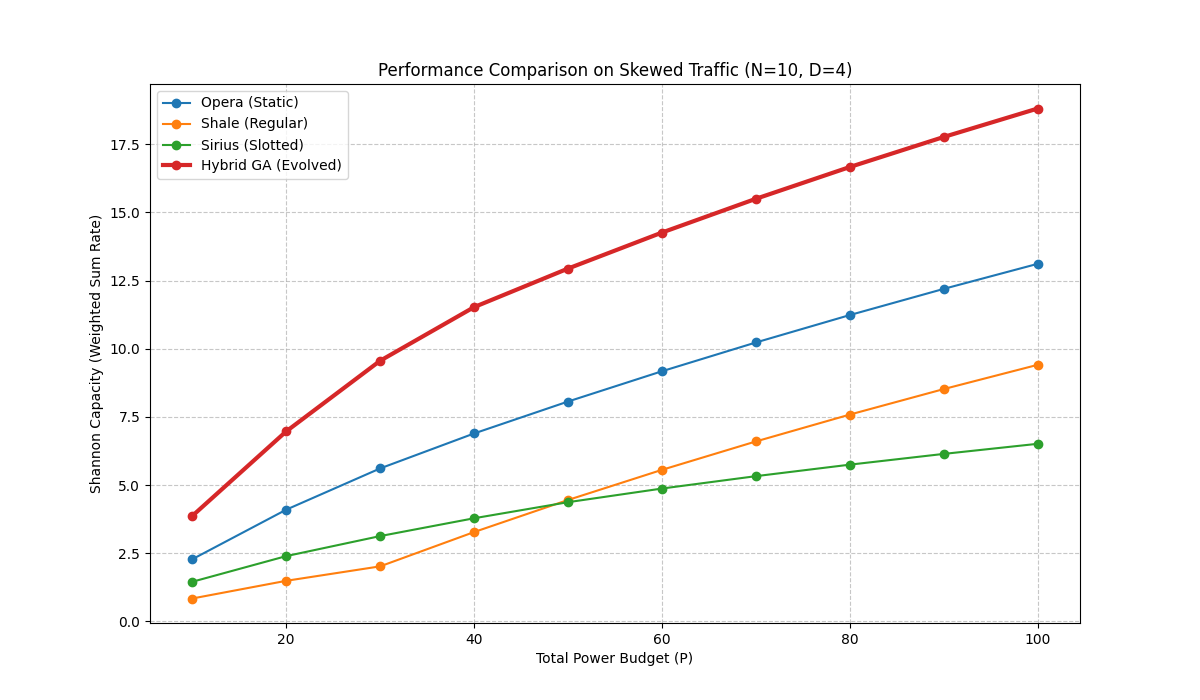
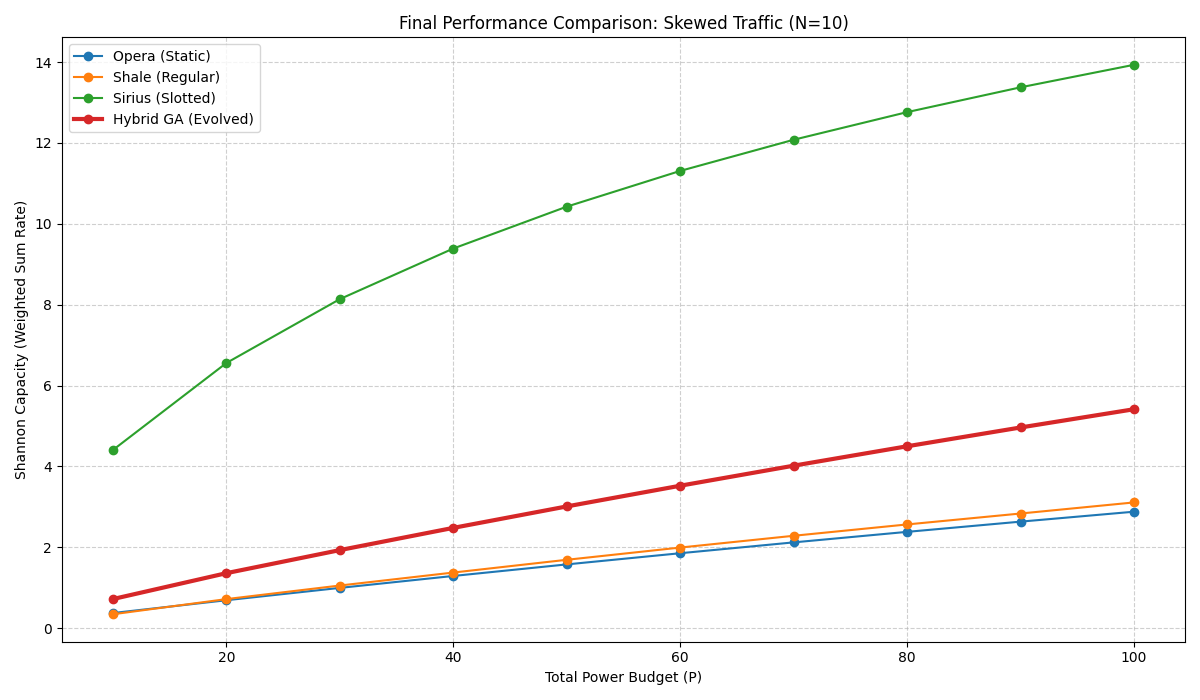
redundant images removed, test waterfilling updated for opera

diff --git a/Traffic_Benchmarks.py b/Traffic_Benchmarks.py
@@ -25,15 +25,22 @@ def generate_skewed_traffic(num_nodes, skew_factor=2):
             traffic[i, j] = 1.0 / (abs(i - j) ** skew_factor + 1)
     return traffic
 
-def calculate_topology_capacity(adj_list, traffic_matrix, total_power=50):
+def calculate_topology_capacity(adj_list, traffic_matrix, total_power=50, architecture_type=None):
     """
     Simulates network capacity for a given topology and traffic demand.
     Uses path-length as noise and Waterfilling for power allocation.
+    
+    Rules implemented:
+    - Weight Normalization: For each source node, the sum of path-lengths (noise) 
+      to all destinations is normalized to a constant 'Power Level' target.
+    - Opera-specific: If architecture_type="opera", the number of timeslots equals the 
+      number of hops. This results in the capacity being divided by the path length for each flow.
     """
     from Waterfilling_Alg import waterfilling
     import collections
     
     num_nodes = len(adj_list)
+    weight_sum_target = num_nodes * 10.0 # Standard 'Power Level' target for sum of weights per node
     
     # 1. Find all-pairs shortest paths to determine 'noise' (hops = noise)
     def get_all_pairs_dist(adj):
@@ -53,37 +60,57 @@ def calculate_topology_capacity(adj_list, traffic_matrix, total_power=50):
 
     dist_matrix = get_all_pairs_dist(adj_list)
     
-    # 2. Map logical traffic flows to physical characteristics
-    # Logical channels are SRC-DST pairs with traffic > 0
+    # 2. Map logical traffic flows and Normalize per-node weights
     channels_noise = []
     demands = []
+    flow_metas = [] # Store (src, dst, original_hops)
     
     for i in range(num_nodes):
+        # Calculate current sum of weights for source i
+        current_sum = 0
+        for j in range(num_nodes):
+            if i == j: continue
+            hops = dist_matrix[i, j] if dist_matrix[i, j] != float('inf') else 100
+            current_sum += hops
+        
+        # Scale factor to hit the 'Power Level' target
+        scale_factor = weight_sum_target / current_sum if current_sum > 0 else 1.0
+        
         for j in range(num_nodes):
             if i == j: continue
             demand = traffic_matrix[i, j]
             if demand > 0:
-                # Noise is path length. If disconnected, noise is huge.
-                noise = dist_matrix[i, j] if dist_matrix[i, j] != float('inf') else 100
-                channels_noise.append(noise)
+                original_hops = dist_matrix[i, j] if dist_matrix[i, j] != float('inf') else 100
+                normalized_noise = original_hops * scale_factor
+                channels_noise.append(normalized_noise)
                 demands.append(demand)
+                flow_metas.append((i, j, original_hops))
     
     if not channels_noise:
         return 0
         
     # 3. Perform Waterfilling
-    # Note: Traditional waterfilling assumes equal weight. 
-    # Here we can weight by demand or adjust noise. 
-    # Let's simplify: Capacity = sum(log2(1 + P_i / Noise_i)) weighted by demand.
-    
     allocations = waterfilling(channels_noise, total_power)
     
+    # 4. Sum up Weighted Capacity
     capacity = 0
-    for i in range(len(channels_noise)):
-        p = allocations[i]
-        n = channels_noise[i]
+    for idx in range(len(channels_noise)):
+        p = allocations[idx]
+        n = channels_noise[idx]
+        demand = demands[idx]
+        src, dst, hops = flow_metas[idx]
+        
         if p > 0:
-            # Shannon capacity: W * log2(1 + SNR)
-            capacity += demands[i] * np.log2(1 + p/n)
+            # Shannon capacity: demand * log2(1 + SNR)
+            rate = demand * np.log2(1 + p/n)
+            
+            # Special rule: for Opera (and potentially others), 1 slot per hop
+            # Capacity is reduced by factor of hops as it takes H slots to deliver the traffic
+            if architecture_type == "opera":
+                capacity += rate / max(1, hops)
+            else:
+                # For Sirius (slotted) or others, handles slotting in its own generation phase
+                # or assumes cut-through / parallel delivery if not specified
+                capacity += rate
             
     return capacity

diff --git a/Test_Waterfilling_Network.py b/Test_Waterfilling_Network.py
@@ -639,8 +639,9 @@ def compare_waterfilling_performance():
     results = {name: [] for name in architectures}
     
     for name, adj in architectures.items():
+        arch_type = "opera" if "Opera" in name else None
         for P in power_levels:
-            cap = calculate_topology_capacity(adj, traffic, total_power=P)
+            cap = calculate_topology_capacity(adj, traffic, total_power=P, architecture_type=arch_type)
             results[name].append(cap)
             
     # Visualize
